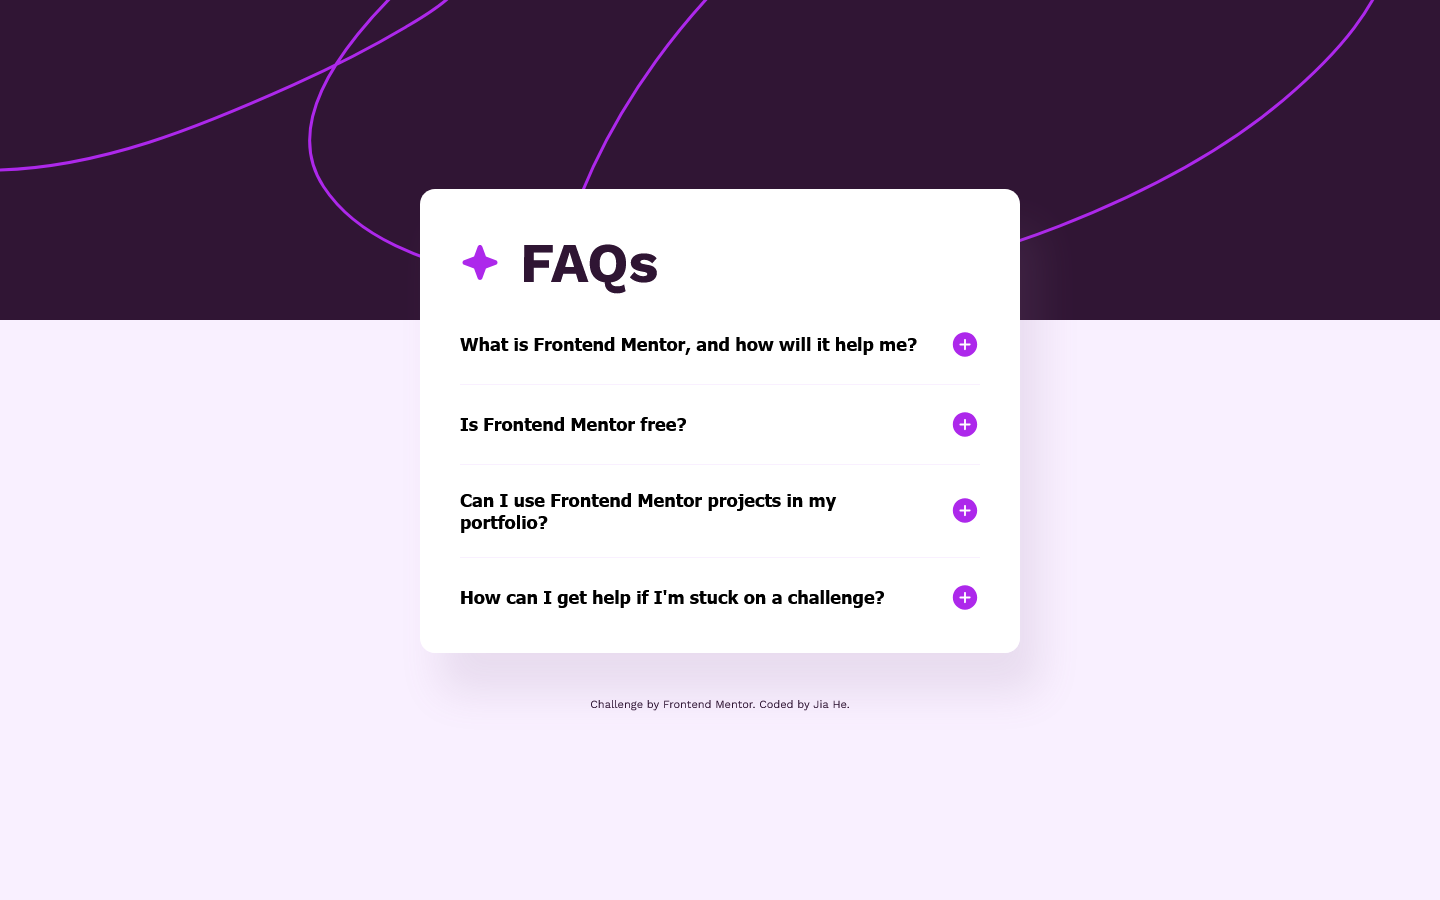
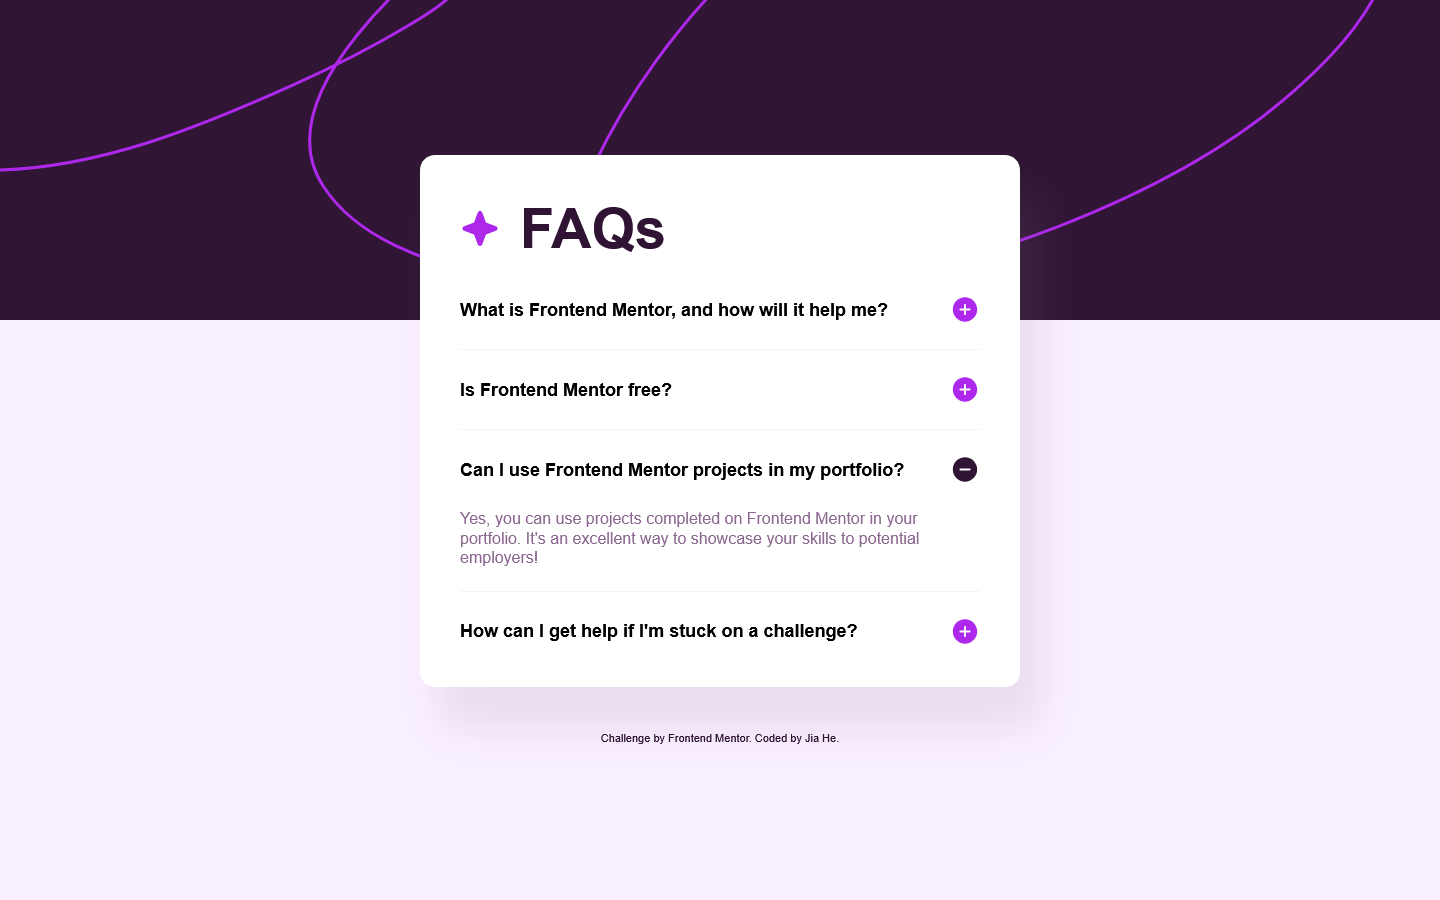
modify style.css

Changed region(s): [[0.2812, 0.1556, 0.7188, 0.6222], [0.2812, 0.6533, 0.7188, 0.84], [0.6562, 0.3111, 0.6875, 0.5911]]

diff --git a/index.html b/index.html
@@ -3,7 +3,6 @@
   <head>
     <meta charset="UTF-8" />
     <meta name="viewport" content="width=device-width, initial-scale=1.0" />
-    <!-- displays site properly based on user's device -->
 
     <link
       rel="icon"
@@ -15,7 +14,7 @@
     <link rel="preconnect" href="https://fonts.googleapis.com" />
     <link rel="preconnect" href="https://fonts.gstatic.com" crossorigin />
     <link
-      href="https://fonts.googleapis.com/css2?family=Work+Sans:ital,wght@0,100..900;1,100..900&display=swap"
+      href="https://fonts.googleapis.com/css2?family=Work+Sans:ital,wght@400;600;700&display=swap"
       rel="stylesheet"
     />
 

diff --git a/style.css b/style.css
@@ -21,6 +21,7 @@ html {
 body {
   font-family: "Work Sans", sans-serif;
   font-size: 1.6rem;
+  font-weight: 400;
   color: var(--purple-dark);
   background-color: var(--purple-light);
   line-height: 1.2;
@@ -89,9 +90,11 @@ picture img {
   justify-content: space-between;
   align-items: center;
   gap: 3rem;
+
   width: 100%;
   border: none;
   background: none;
+  font-family: inherit;
   font-size: 1.8rem;
   font-weight: 600;
   text-align: left;
